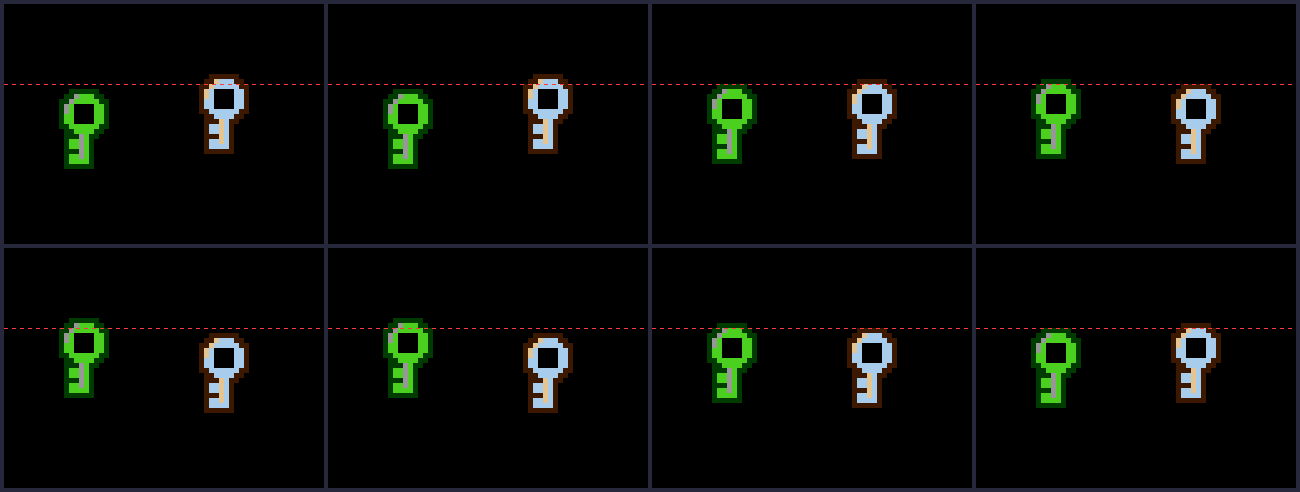
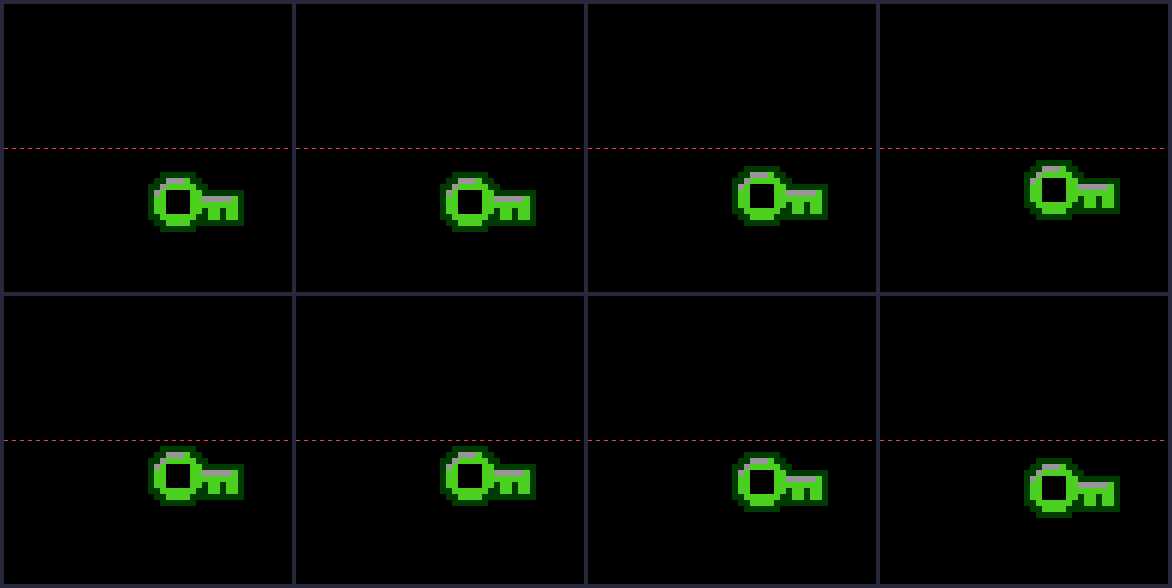
Chaves deitadas (horizontal): argola a esquerda, haste a direita, dentes para baixo
So o desenho dos 8 tiles das chaves mudou ($30-$33 e $40-$43). chaves.s e as 4 linhas do main.s
continuam iguais; posicoes, sorteio, sala e flutuacao nao mudaram (PRG das ROMs identico byte a byte).
- chaves/TitleSprites.chr, gerar_chaves.py: arte deitada
- chaves/jogo_AOC_com_chaves.nes e demo_chaves.nes recompiladas (ca65/ld65 reais)
- imagens refeitas a partir das ROMs; LEIA-ME atualizado

diff --git a/SystemFailure-main/SystemFailure-main/chaves/gerar_chaves.py b/SystemFailure-main/SystemFailure-main/chaves/gerar_chaves.py
@@ -26,30 +26,32 @@ Uso:
 
 O script RECUSA e nao grava nada se algum dos 8 tiles de destino ja tiver desenho.
 Para mudar o desenho, edite o texto de CHAVE (16 linhas de 16 caracteres).
+A chave e DEITADA (horizontal); a versao em pe (vertical) esta no historico do git.
 So precisa de Python 3 (sem bibliotecas extras).
 """
 import argparse
 import os
 import sys
 
-# Desenho base. . = transparente | 1 = contorno | 2 = corpo | 3 = brilho
+# Desenho base: chave DEITADA (argola a esquerda, haste para a direita, 2 dentes para baixo).
+# . = transparente | 1 = contorno | 2 = corpo | 3 = brilho
 CHAVE = [
-    ".....111111.....",
-    "....11322211....",
-    "...1132222211...",
-    "...132....221...",
-    "...132....221...",
-    "...122....221...",
-    "...122....221...",
-    "...1122222211...",
-    "....11222211....",
-    "....1113211.....",
-    "....122321......",
-    "....122321......",
-    "....111321......",
-    "....122321......",
-    "....122221......",
-    "....111111......",
+    "................",
+    "................",
+    "................",
+    "..111111........",
+    ".11333211.......",
+    "1132222211......",
+    "132....221111111",
+    "122....223333321",
+    "122....222222221",
+    "122....221221221",
+    "1122222211221221",
+    ".112222111111111",
+    "..111111........",
+    "................",
+    "................",
+    "................",
 ]
 
 # Como cada chave troca os indices de cor do desenho base (contorno, corpo, brilho):

diff --git a/SystemFailure-main/SystemFailure-main/chaves/LEIA-ME.md b/SystemFailure-main/SystemFailure-main/chaves/LEIA-ME.md
@@ -1,6 +1,6 @@
 # Chaves (verde e azul): lugar sorteado e flutuando
 
-Cada chave **sorteia 1 entre 3 lugares possíveis** (os círculos vermelhos dos mapas) e flutua no lugar sorteado.
+Cada chave **sorteia 1 entre 3 lugares possíveis** (os círculos vermelhos dos mapas) e flutua no lugar sorteado. As chaves são desenhadas **deitadas** (na horizontal).
 
 | Chave | Sala | O que abre | Cor | Lugares possíveis |
 |---|---|---|---|---|
@@ -49,6 +49,12 @@ git push -u origin chaves
 ```
 
 E abra um Pull Request da branch `chaves` para a `main` no GitHub. Quem aceitar o PR coloca na `main`.
+
+## O desenho: chave deitada
+
+A chave está **na horizontal**: argola à esquerda, haste para a direita e dois dentes para baixo, com o brilho em cima. Ela ocupa 16 pixels de largura e 10 de altura, no meio do quadrado de 16x16. **A posição é a mesma de antes** (o par X/Y é o canto do quadrado, e a chave fica centrada nele), e o sorteio e a flutuação não mudaram.
+
+A mudança foi só o desenho nos 8 tiles das chaves (`$30-$33` e `$40-$43`). O `chaves.s` e as 4 linhas do `main.s` continuam iguais; por isso, se você já aplicou a versão anterior no seu AOC, só precisa trocar o `TitleSprites.chr`. A versão **em pé** continua no histórico do git (commit `3e425ff` desta branch), caso queiram comparar.
 
 ## O que alterar para incluir no jogo final
 
@@ -149,7 +155,7 @@ passo:      0  1  2  3  4  5  6  7        cada passo dura 8 quadros
 sobe (px):  0  1  2  3  3  2  1  0        ciclo de 64 quadros; a azul começa 4 passos adiante
 ```
 
-Para ficar mais rápida, tire um `lsr a` de `chave_desenha`. Para mudar a altura, edite `ck_tab_sobe`. Veja `chaves_ciclo.png`.
+Para ficar mais rápida, tire um `lsr a` de `chave_desenha`. Para mudar a altura, edite `ck_tab_sobe`. Veja `chaves_ciclo.png` (os 8 passos da chave verde; a linha vermelha é o topo do quadrado de 16x16).
 
 ## Cores e tiles
 
